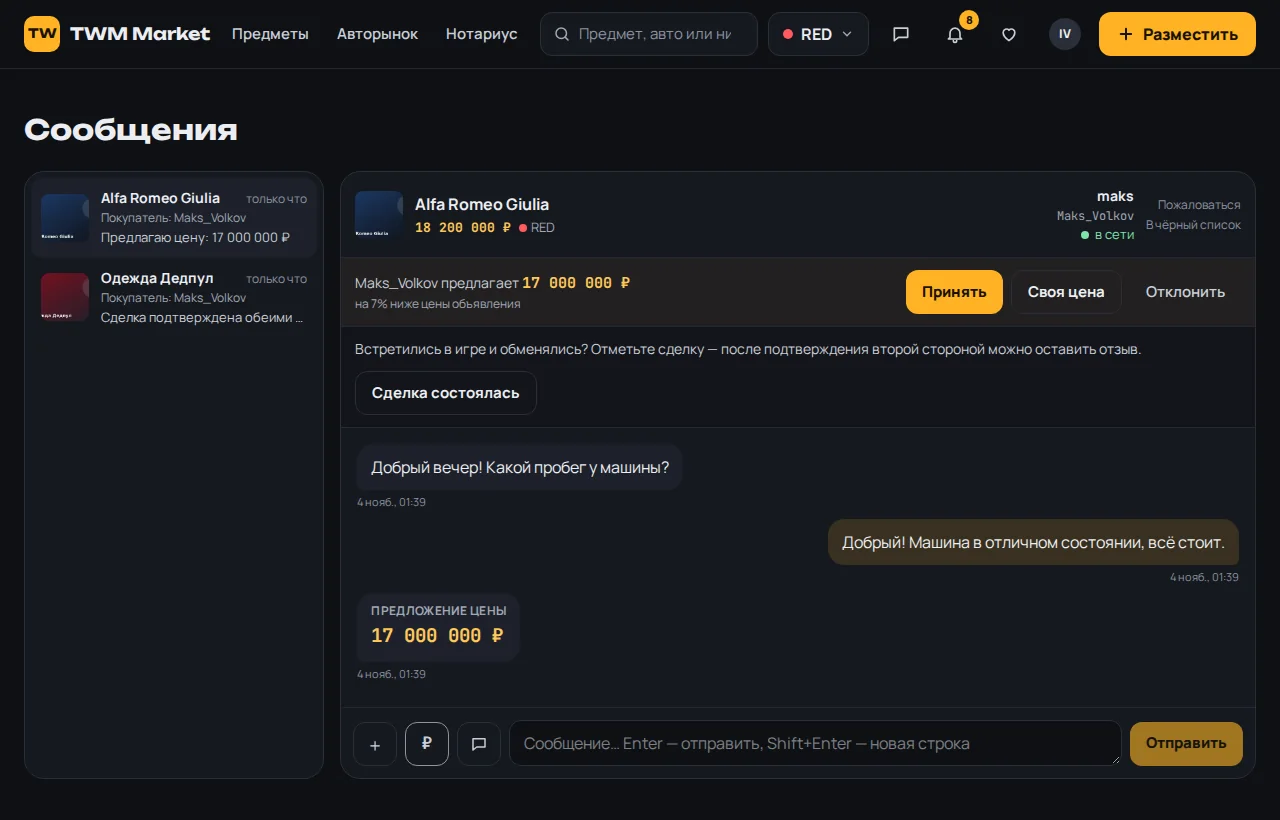
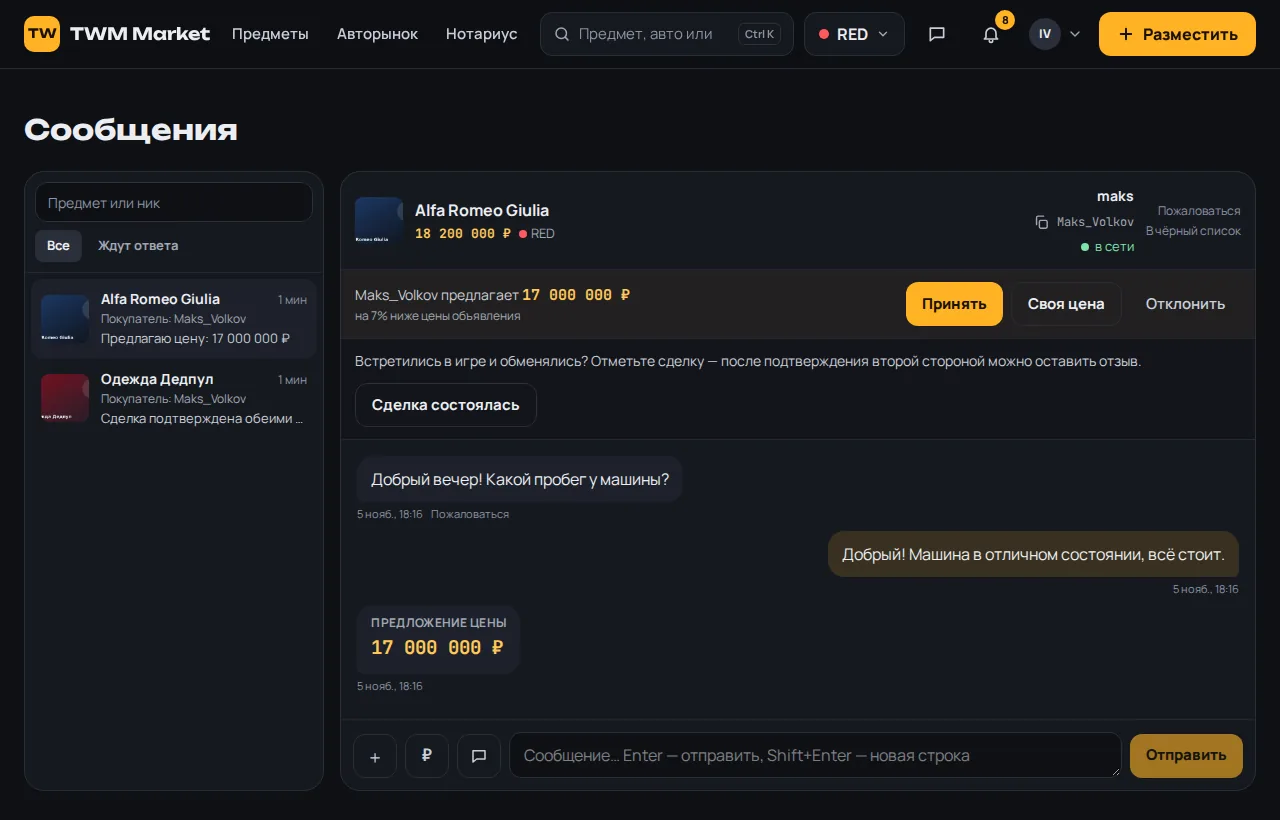
Сайт: свежие снимки приложения и телефона; версия 0.19.0
Claude-Session: https://claude.ai/code/session_01DoCAdB3AUjwefo6hMP6RBW

diff --git a/apps/site/src/tour.js b/apps/site/src/tour.js
@@ -3,13 +3,14 @@
  * снимка и обводит её. Шаги переключаются прокруткой и нажатием.
  */
 
-// Области на снимках, в пикселях исходных картинок.
+// Области на снимках, в пикселях исходных картинок (снимки и координаты —
+// из tools/screenshots: screens/site-tour.png, site-chat.png, site.json).
 const SHOTS = { tour: { w: 1280, h: 1300 }, chat: { w: 1280, h: 820 } };
 const STEPS = [
-  { shot: "tour", x: 940, y: 350, w: 292, h: 84 }, // цена в сравнении
-  { shot: "tour", x: 24, y: 754, w: 864, h: 544 }, // история цены
-  { shot: "tour", x: 916, y: 748, w: 340, h: 414 }, // продавец
-  { shot: "chat", x: 341, y: 258, w: 915, h: 410 }, // предложение цены
+  { shot: "tour", x: 932, y: 262, w: 308, h: 182 }, // цена в сравнении
+  { shot: "tour", x: 24, y: 753, w: 864, h: 544 }, // история цены
+  { shot: "tour", x: 916, y: 756, w: 340, h: 414 }, // продавец
+  { shot: "chat", x: 341, y: 270, w: 915, h: 420 }, // предложение цены
 ];
 const PAD = 14;
 

diff --git a/apps/api/src/app.ts b/apps/api/src/app.ts
@@ -34,7 +34,7 @@ import { verificationRoutes } from "./modules/game-profiles/verification.js";
 import { errorRoutes } from "./modules/errors/routes.js";
 import { pushRoutes } from "./modules/push/routes.js";
 
-export const API_VERSION = "0.18.0";
+export const API_VERSION = "0.19.0";
 
 export interface BuildOptions {
   config: Config;

diff --git a/CHANGELOG.md b/CHANGELOG.md
@@ -3,6 +3,12 @@
 Раздел выпуска начинается с `## vX.Y.Z`. Текст раздела попадает в описание
 релиза на GitHub и в окно «Что нового» при автообновлении приложения.
 
+## v0.19.0
+
+- Android: уведомления о новых сообщениях, предложениях цены, сделках и изменениях в избранном приходят, даже когда приложение закрыто. Телефон проверяет новое примерно раз в 15 минут (в режиме экономии батареи — реже). Нажатие на уведомление открывает нужную переписку или объявление. Выключить можно в «Личный кабинет» → «Уведомления».
+- Для этого телефон получает отдельный ключ, которым можно только забрать уведомления, — войти по нему в аккаунт нельзя. Ключ отзывается при выходе из аккаунта, при «Выйти на всех устройствах» и при удалении аккаунта.
+- Сайт: свежие снимки приложения и раздел «И на телефоне» со скачиванием для Android.
+
 ## v0.18.0
 
 - Обновления: сразу после запуска приложение проверяет новую версию и, если она есть, само показывает окно «Доступна версия…» с описанием изменений и кнопкой «Обновить сейчас».
